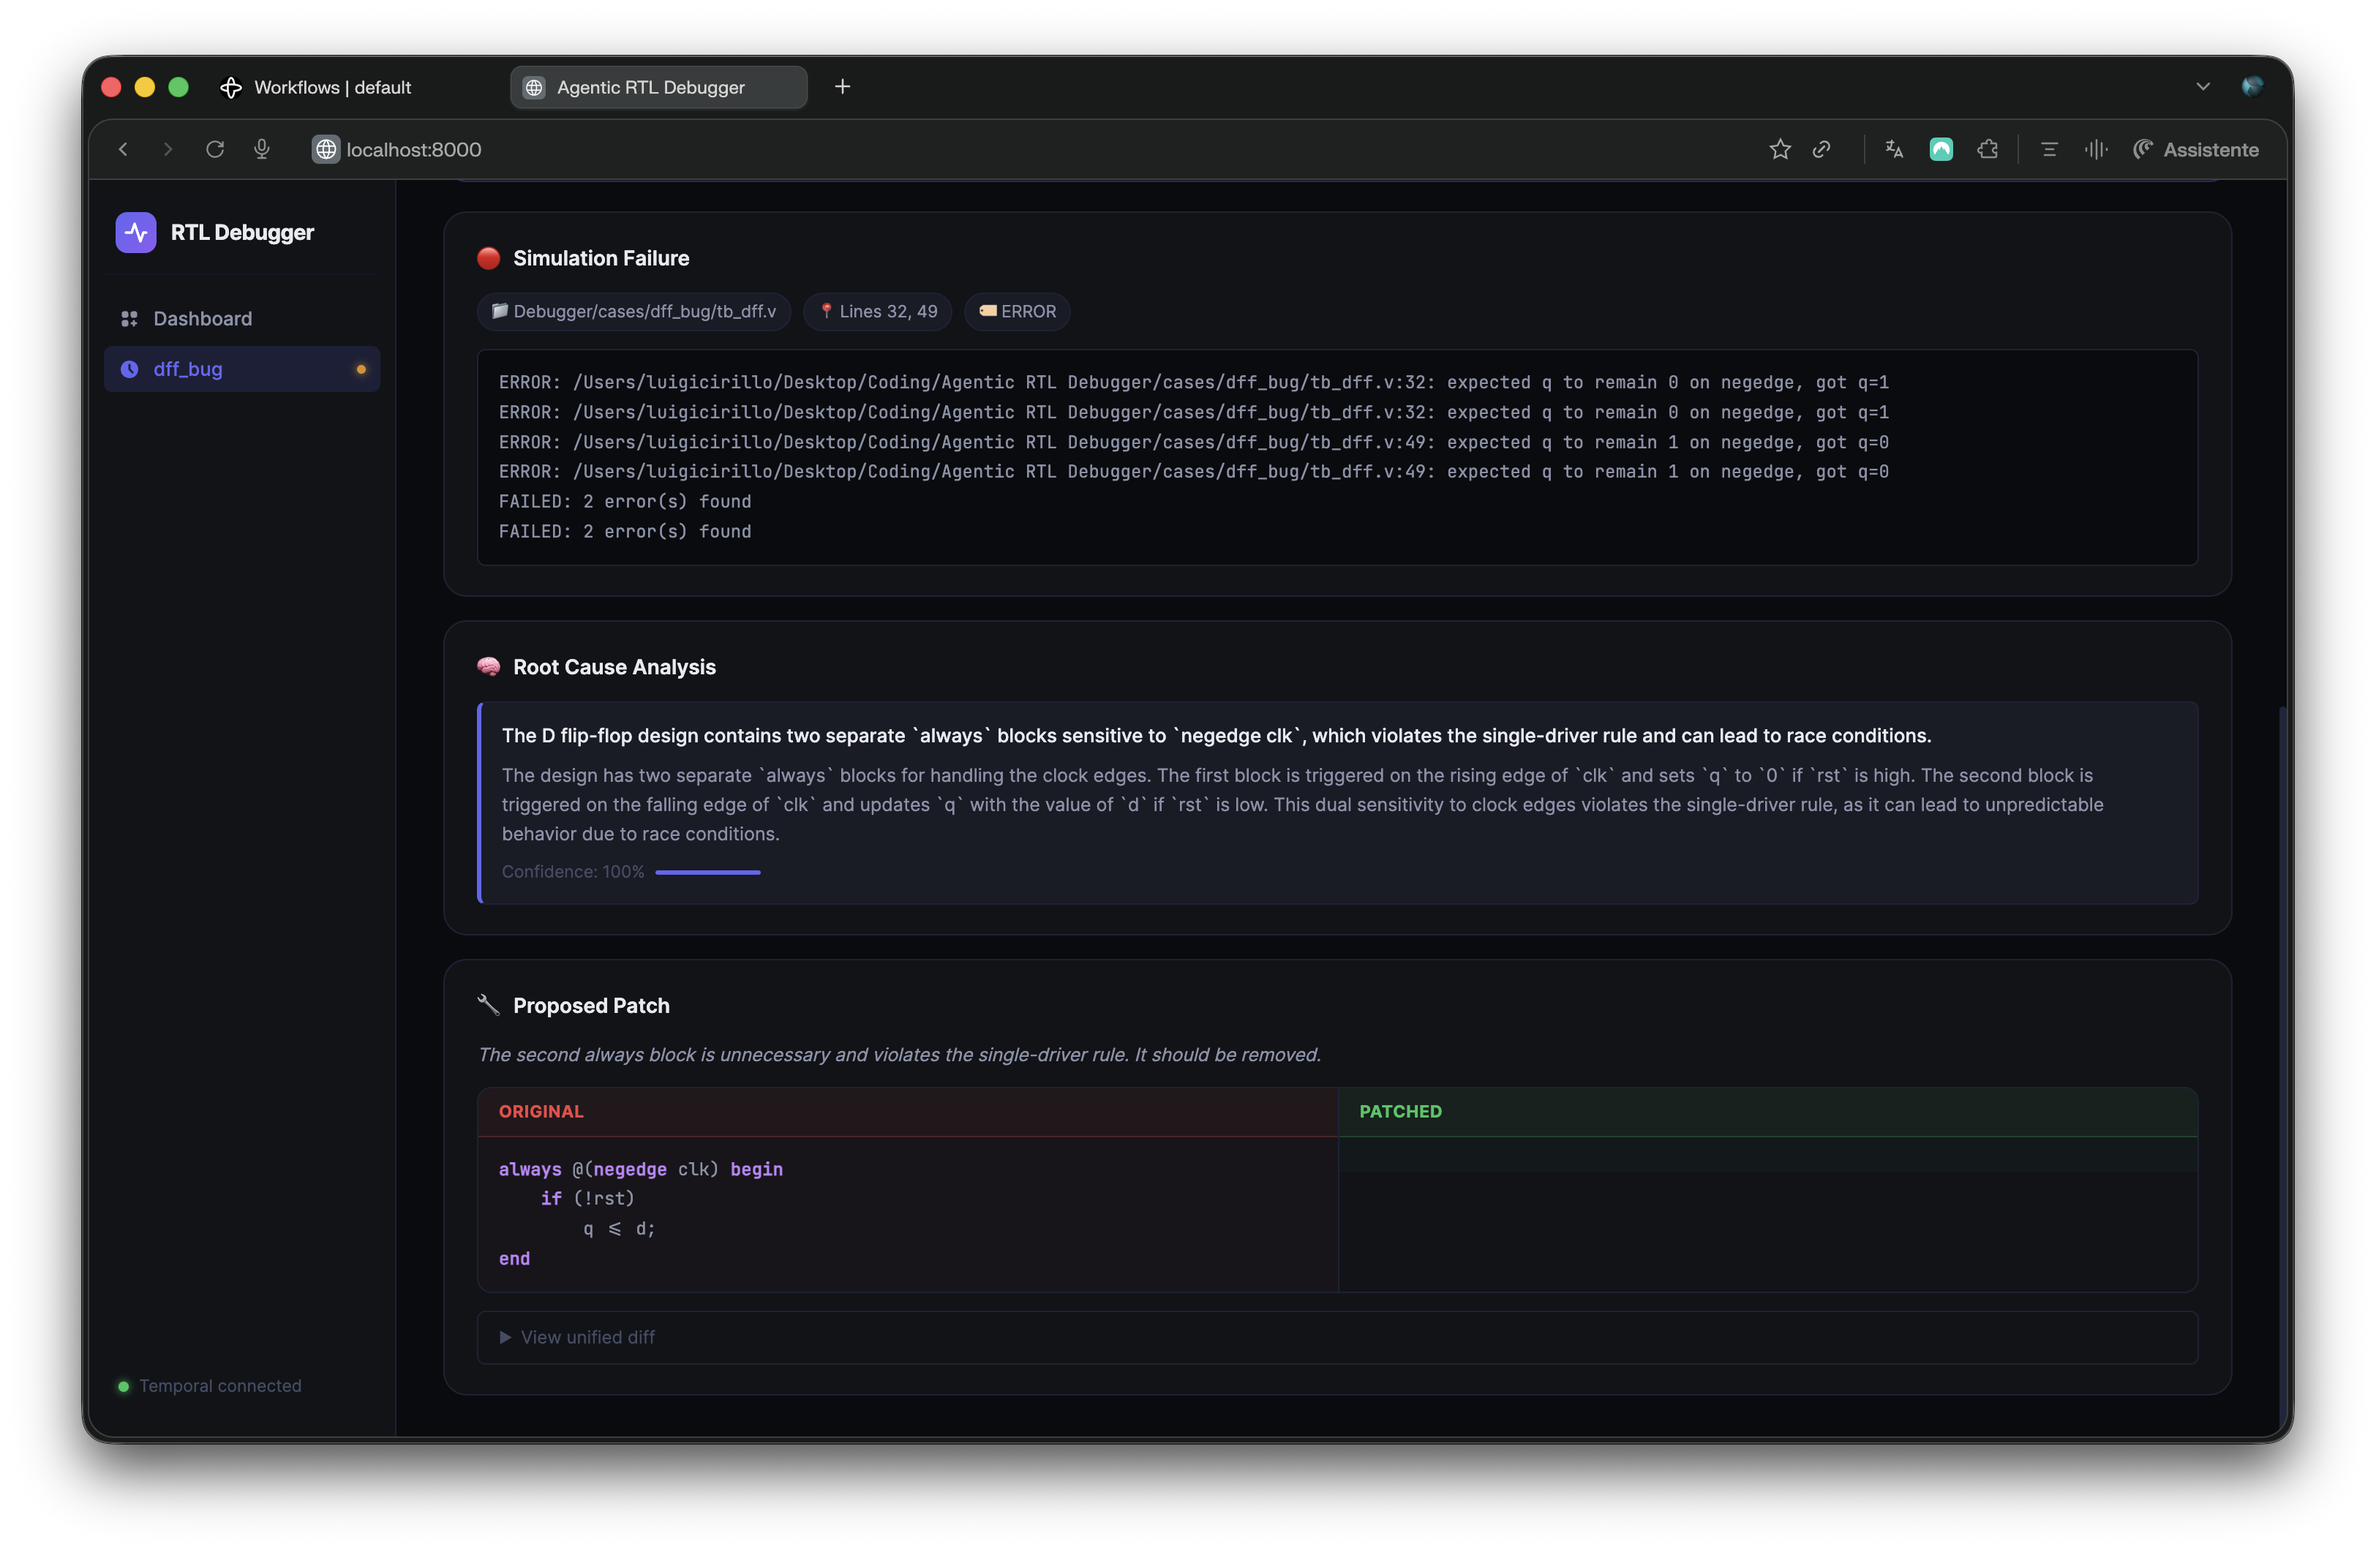
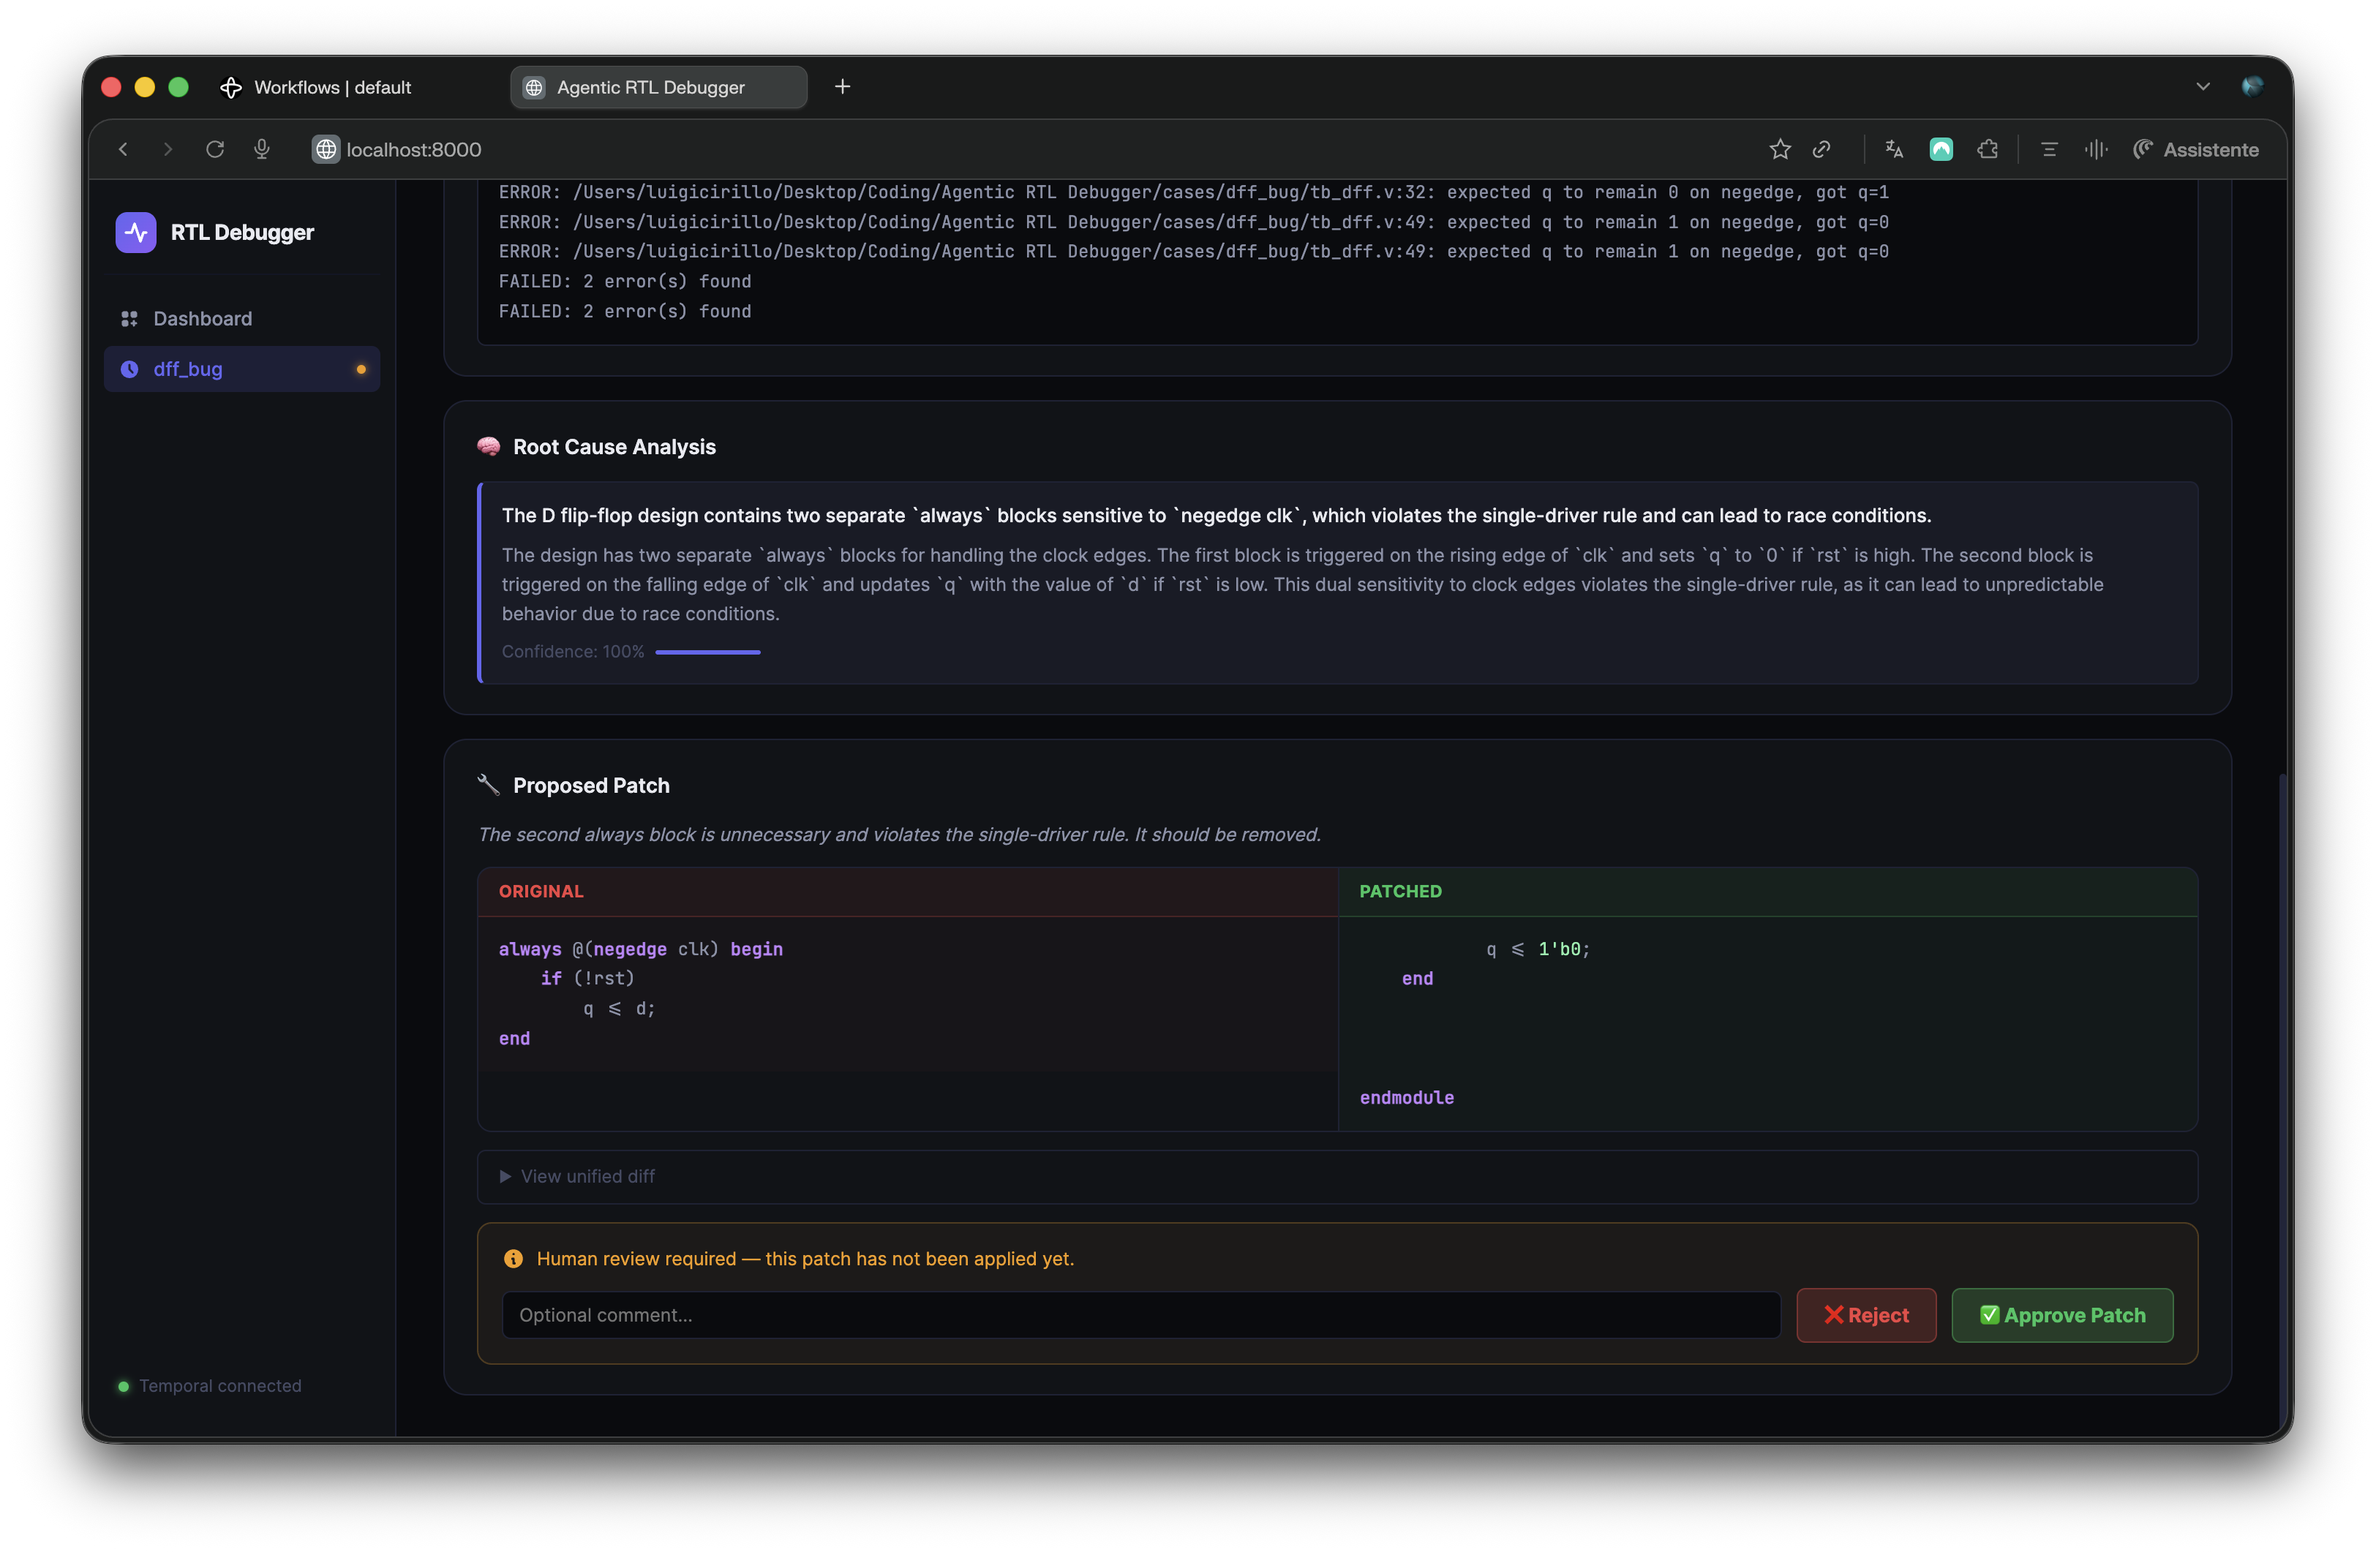
docs: update README documentation with agentic loop diagram and remove lineterm from diff utility output

diff --git a/tools/diff_utils.py b/tools/diff_utils.py
@@ -14,6 +14,5 @@ def unified_diff(original: str, patched: str, filename: str = "module.v") -> str
         b_lines,
         fromfile=f"a/{filename}",
         tofile=f"b/{filename}",
-        lineterm="",
     )
     return "".join(diff)

diff --git a/README.md b/README.md
@@ -39,9 +39,9 @@ The whole pipeline is backed by **Temporal.io**, which makes every step durable 
 
 ![Approval gate screenshot](docs/images/approval-gate.png)
 
-### Debug report
+### Agentic Loop
 
-![Report screenshot](docs/images/report.png)
+![Agentic loop screenshot](docs/images/agentic-loop.png)
 
 ---
 
